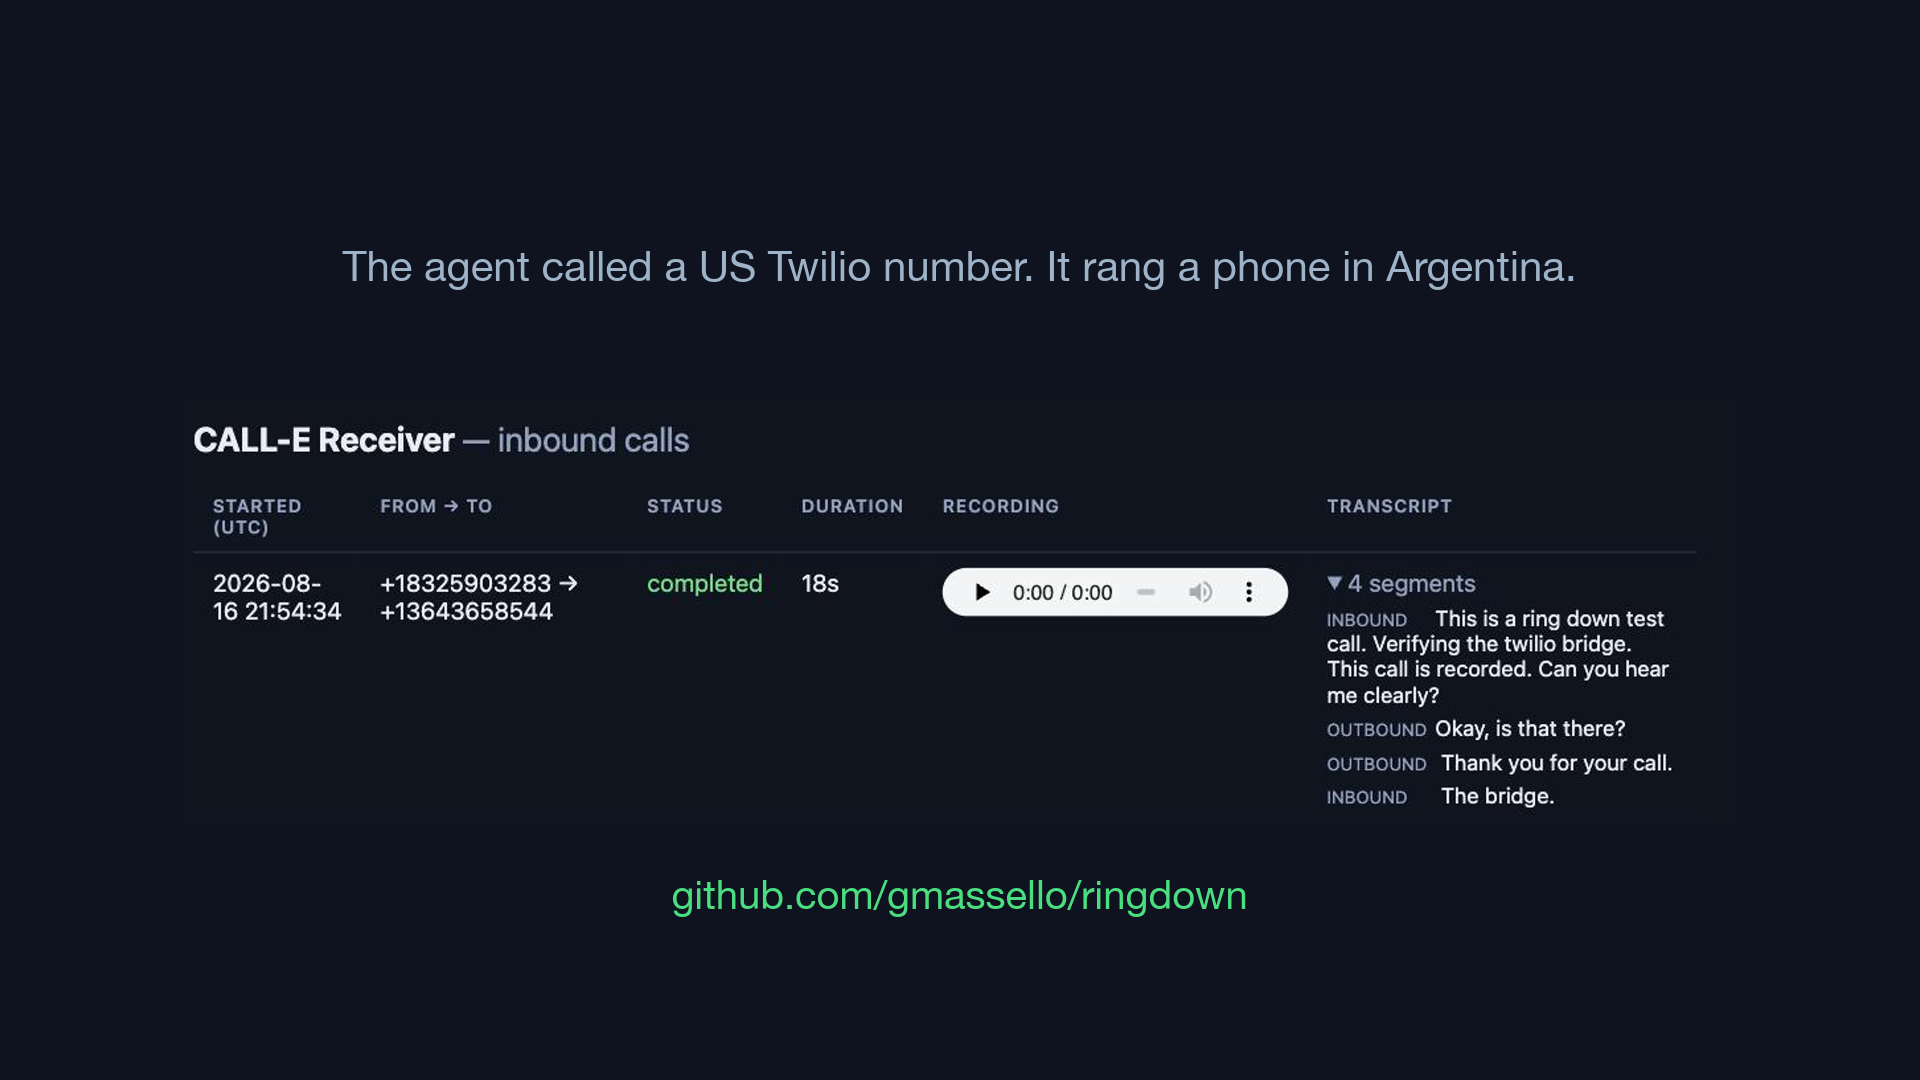
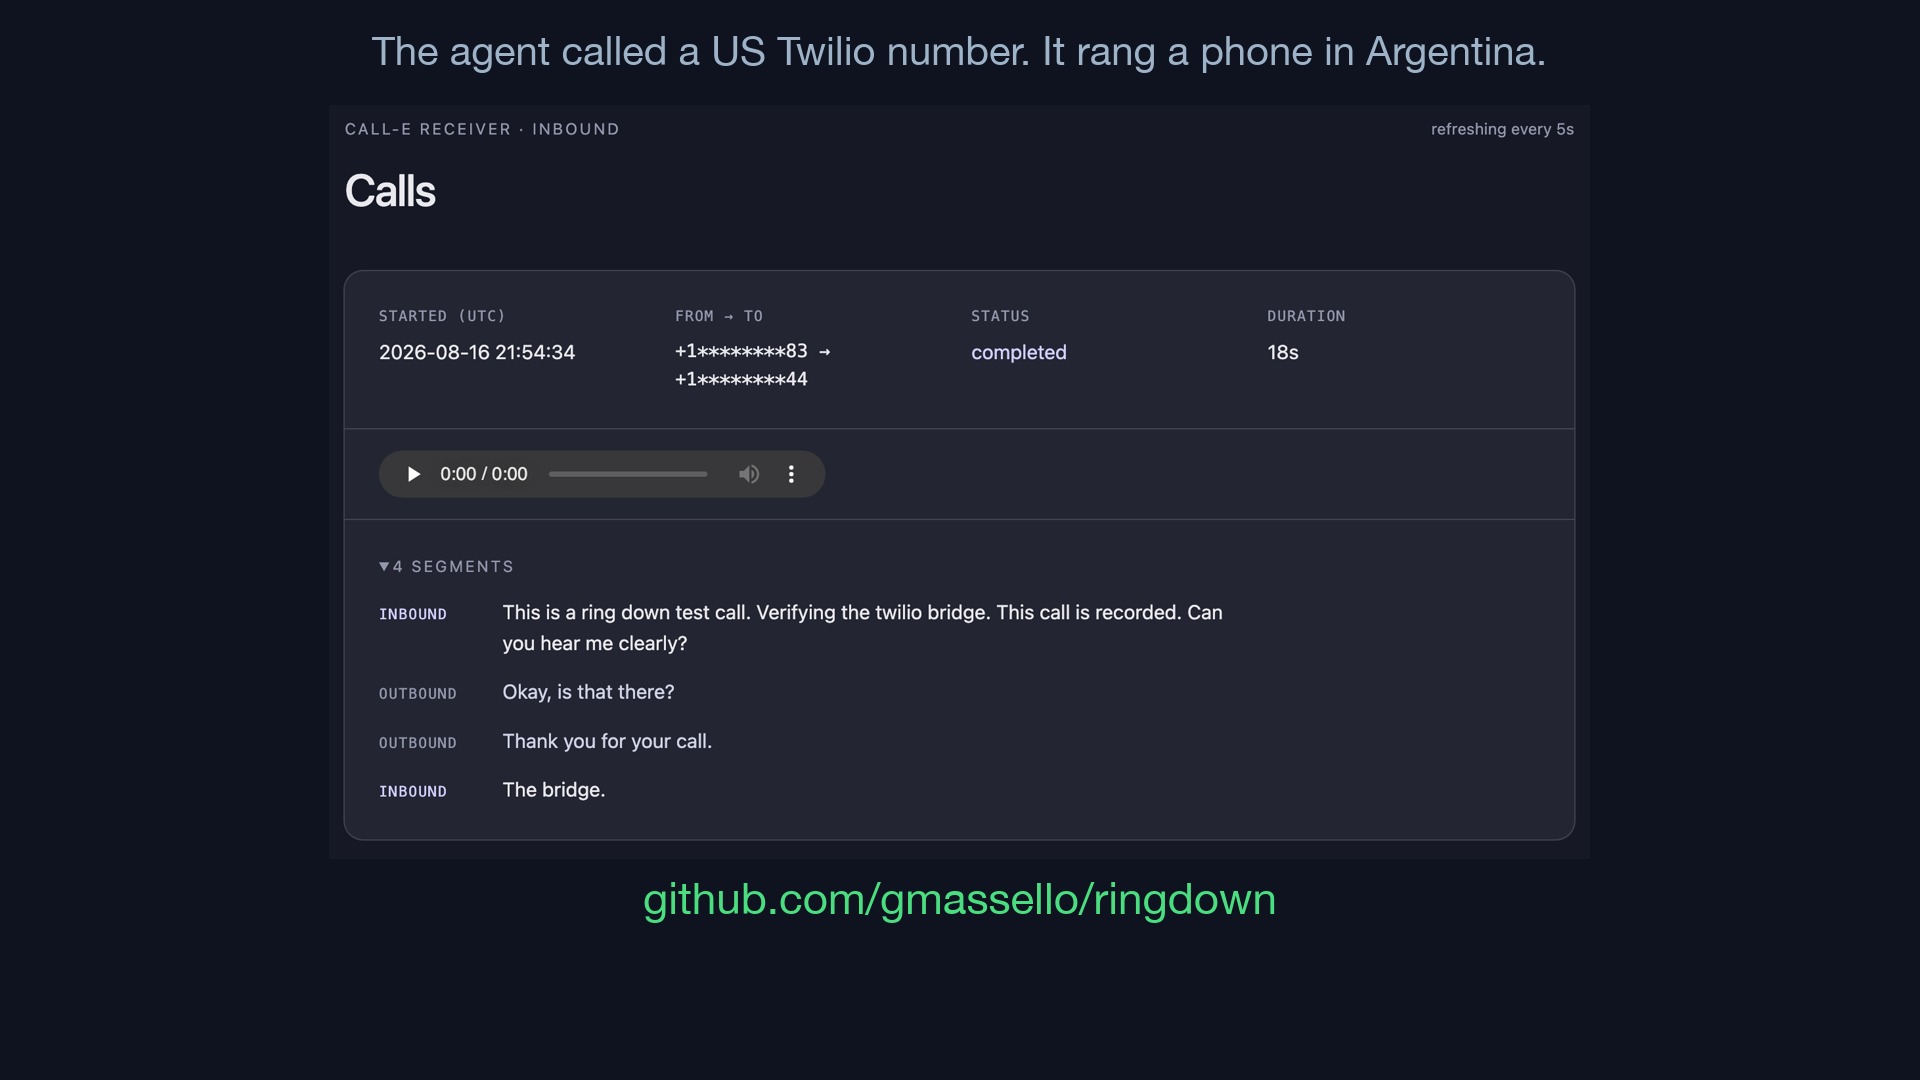
Fetch ledger locally and update screenshots.

diff --git a/docs/index.html b/docs/index.html
@@ -527,11 +527,11 @@
         </div>
       </div>
 
-      <p style="color:var(--color-neutral-400);max-width:70ch;margin-bottom:8px">This is <span class="mono">examples/ledger.example.jsonl</span>, fetched from the repository as you load this page &mdash; not a copy pasted into it. Tampering rewrites every <span class="mono">verdict</span> record to <span class="mono">acknowledged</span>, then reseals and relinks the whole chain from the genesis hash, exactly as <span class="mono">demo/run_local.py</span> does. Every link, every seal and every position stays green. The last check does not, because verification does not trust the recorded verdict: it re-derives it from the attempts.</p>
+      <p style="color:var(--color-neutral-400);max-width:70ch;margin-bottom:8px">This is <span class="mono">examples/ledger.example.jsonl</span>, byte for byte, fetched as you load this page. A test in the repo fails if this file and the one <span class="mono">demo/run_local.py</span> writes ever differ. Tampering rewrites every <span class="mono">verdict</span> record to <span class="mono">acknowledged</span>, then reseals and relinks the whole chain from the genesis hash, exactly as <span class="mono">demo/run_local.py</span> does. Every link, every seal and every position stays green. The last check does not, because verification does not trust the recorded verdict: it re-derives it from the attempts.</p>
       <p style="color:var(--color-neutral-500);font-size:14px;max-width:70ch" data-ledger-note="other">The committed ledger is scenario 3 &mdash; nobody committed, so the honest verdict is <span class="mono">unacknowledged</span>. Its digests are its own, not those of the run above. <a href="#run" data-goto-nobody>Open that scenario</a> and the two halves line up.</p>
       <p style="color:var(--color-neutral-400);font-size:14px;max-width:70ch" data-ledger-note="nobody" hidden>These eight records <strong>are</strong> the run above &mdash; scenario 3 ends at <span class="mono">ledger 8 records &middot; head sha256:9d33&hellip;</span>, and record 8 below is <span class="mono">sha256:9d331fa&hellip;</span>. Three intent/attempt pairs, one for each rung, then the verdict and its verification.</p>
 
-      <div id="ledger-status" style="margin-top:24px;color:var(--color-neutral-500);font-size:14px">Fetching the ledger from GitHub&hellip;</div>
+      <div id="ledger-status" style="margin-top:24px;color:var(--color-neutral-500);font-size:14px">Fetching the ledger&hellip;</div>
 
       <div id="ledger-body" hidden class="grid" style="grid-template-columns:repeat(auto-fit,minmax(min(320px,100%),1fr));margin-top:24px;align-items:start">
         <div>

diff --git a/docs/ledger.js b/docs/ledger.js
@@ -1,6 +1,5 @@
 export const GENESIS = "sha256:" + "0".repeat(64);
-export const LEDGER_URL =
-  "https://raw.githubusercontent.com/gmassello/ringdown/main/apps/python/ringdown/examples/ledger.example.jsonl";
+export const LEDGER_URL = "./ledger.example.jsonl";
 
 const SUPPORTED_SCHEMA = 1;
 
@@ -44,7 +43,7 @@ export const parseLedger = (text) =>
 
 export const fetchLedger = async () => {
   const response = await fetch(LEDGER_URL, { cache: "no-store" });
-  if (!response.ok) throw new Error(`GitHub answered ${response.status}`);
+  if (!response.ok) throw new Error(`the server answered ${response.status}`);
   return parseLedger(await response.text());
 };
 

diff --git a/docs/app.js b/docs/app.js
@@ -254,7 +254,7 @@ const setUpLedger = async () => {
   try {
     committed = await fetchLedger();
   } catch (error) {
-    status.textContent = `Could not fetch the ledger from GitHub (${error.message}). It is committed at examples/ledger.example.jsonl.`;
+    status.textContent = `Could not fetch the ledger (${error.message}). It is committed at examples/ledger.example.jsonl.`;
     tamperButton.disabled = true;
     return;
   }

diff --git a/apps/python/ringdown/tests/test_demo.py b/apps/python/ringdown/tests/test_demo.py
@@ -12,6 +12,7 @@ from tests.data import EXAMPLES
 APP = EXAMPLES.parent
 EXPECTED = APP / "demo" / "EXPECTED.md"
 LEDGER = EXAMPLES / "ledger.example.jsonl"
+SITE_LEDGER = APP.parents[2] / "docs" / "ledger.example.jsonl"
 QUOTED = re.compile(r"```text\n(.*?)```", re.S)
 WALL_CLOCK = re.compile(r"\b\d\d:\d\d local")
 
@@ -66,4 +67,12 @@ def test_the_committed_example_ledger_is_the_one_the_demo_writes(demo_run):
     assert demo_run.written_ledger == demo_run.committed_ledger, (
         "examples/ledger.example.jsonl is not what the demo writes any more. "
         "Run python -m demo.run_local and commit the file as it comes out."
+    )
+
+
+@pytest.mark.skipif(not SITE_LEDGER.exists(), reason="docs/ stays out of the upstream checkout")
+def test_the_site_serves_the_ledger_the_demo_writes(demo_run):
+    assert SITE_LEDGER.read_bytes() == demo_run.committed_ledger, (
+        "docs/ledger.example.jsonl has drifted from examples/ledger.example.jsonl. "
+        "The site reads its own copy, so copy the file across after running the demo."
     )

diff --git a/plan-still-dashboard.md b/plan-still-dashboard.md
@@ -1,0 +1,168 @@
+# Regrabar el still del dashboard y re-ensamblar el demo
+
+Plan para ejecutar mañana. Se deja escrito en `plan-still-dashboard.md`, en la raíz del proyecto,
+junto a `plan-anti-inyeccion.md`. No se ejecuta nada más hoy.
+
+## Contexto
+
+`video/dashboard.png` es el primer still de cierre del video demo (2:50): muestra el dashboard del
+receiver con la llamada real recibida en Argentina. Al rediseñarse `/calls` de tabla a tarjetas, el
+still quedó mostrando la interfaz vieja. Está anotado como pendiente en `video/README.md`.
+
+Al abrir el material aparecen dos cosas que cambian el trabajo:
+
+**1. El still no es una imagen suelta: es un OUTRO del ensamblado.** `video/README.md:113-118` deja
+el comando completo, con los números ya calculados a partir de `out/timing.txt`:
+
+```
+END=142.6  SLIDE=video/slide.png SLIDE_DUR=18.7
+OUTRO="video/dashboard.png:4,video/closing.png:4.2"  OUTRO_REPLACE=8.2
+```
+
+Cambiar el PNG no toca el `demo.mp4` publicado. Pero **el material caro sigue en disco**:
+`out/raw-fitted.mov` (el screencast ya ajustado al audio), `out/narration.wav`, `out/captions.srt`,
+`out/timing.txt` y `out/timing-noslide.txt`. Así que re-ensamblar es un solo comando y **no hay que
+regrabar ni terminal ni teléfono ni audio**.
+
+**2. `mkstills.sh` no reproduce el PNG commiteado.** Para `dashboard.png` hace
+`crop=1200:790:150:20`, `scale=-1:900`, `pad=1920:1080:…:150` y dibuja **una sola** línea a `y=60`,
+lo que dejaría el recorte de `y=150` a `y=1050`. El PNG real tiene el texto a ~`y=267`, el dashboard
+en una franja de ~420 px y una línea `github.com/gmassello/ringdown` en verde que el script no
+dibuja. El artefacto y su generador divergieron, y el README declara al script como la forma de
+regenerarlo.
+
+Resultado buscado: el still muestra el dashboard actual con los números enmascarados, `mkstills.sh`
+vuelve a producirlo tal cual, y `out/demo.mp4` queda regenerado con él.
+
+## Objetivo
+
+`video/dashboard.png` nuevo (1920x1080, dashboard rediseñado, números enmascarados), `mkstills.sh`
+que lo regenere de forma reproducible, y `out/demo.mp4` re-ensamblado con el still nuevo — sin
+regrabar ninguna toma.
+
+## Suposiciones
+
+- **Números enmascarados** (`+1********83 → +1********44`), decidido en la conversación. El dashboard
+  imprime lo que tiene en la base, así que la llamada de demo se siembra ya enmascarada. El still
+  queda distinto del video hoy publicado en ese detalle.
+- **Se conserva el reproductor de audio**, en estado vacío como en el still viejo: la llamada
+  sembrada lleva `recording_url` de `api.twilio.com` (como `_with_recording` en
+  `apps/python/calle-receiver/tests/test_dashboard.py:51`) para que `_audio()` renderice el
+  `<audio controls>`.
+- Mismo contenido que el still viejo: llamada del 2026-08-16, `completed`, `18s`, y los cuatro
+  segmentos (`This is a ring down test call…` / `Okay, is that there?` / `Thank you for your call.` /
+  `The bridge.`).
+- La composición replica la del still actual, no la del script: línea de contexto arriba
+  (`The agent called a US Twilio number. It rang a phone in Argentina.`), dashboard al medio, repo en
+  verde abajo.
+- **Subir el video nuevo a YouTube es decisión tuya**, no parte de esto. El plan deja `demo.mp4`
+  listo.
+
+## Reglas del skill `personal-record-video` que aplican acá
+
+Se usa el skill (`~/Documents/dotfiles/claude-code/skills/personal-record-video/`) para el
+ensamblado. De sus reglas, las que tocan este trabajo:
+
+- **`build-audio.sh` borra `video/out/` entero.** No se corre. Sería el error caro del día: se
+  llevaría `raw-fitted.mov` y obligaría a rehacer el fit con las marcas de beat. Solo se corre
+  `build-video.sh`.
+- **`SLIDE_DUR` debe ser exactamente el largo del beat 1** (18.7 s en `out/timing.txt`) y
+  `OUTRO_REPLACE` la suma de los outros (8.2). Los números ya están en el README y no cambian, porque
+  el still nuevo ocupa el mismo lugar y la misma duración.
+- **`dashboard.png` dura 4 s en pantalla.** El skill avisa que bajo ~3.5 s un still no se llega a
+  leer, así que 4 s es el piso: el encuadre tiene que priorizar legibilidad sobre mostrarlo todo. La
+  tarjeta nueva juega a favor (menos densa que la tabla), pero conviene recortar apretado.
+- **libass**: sin él, el filtro de subtítulos falla al final de todo el encode. Verificar
+  `ffmpeg -filters | grep " subtitles "` antes de ensamblar; si falta, `brew install ffmpeg@7` (los
+  scripts prefieren el keg solos, y `mkstills.sh` ya lo hace).
+- **El banner del debugger de Chrome no aplica acá.** Es un problema de las capturas en window mode
+  con `Cmd+Shift+5`; el still se saca con la herramienta MCP, que fotografía solo el contenido de la
+  página, sin chrome del navegador.
+- **Las screenshots vuelven a una escala distinta del viewport**, así que las coordenadas del recorte
+  se sacan de `getBoundingClientRect()`, nunca midiendo sobre la imagen.
+
+## Pasos
+
+1. **Capturar el dashboard nuevo.** Método que ya documenta `video/README.md:91-94` y que se usó al
+   implementar el rediseño: receiver local contra una `calls.db` propia en el scratchpad, sembrar por
+   `POST /voice` + cuatro `POST /voice/transcription` + `POST /voice/status`, marcar el
+   `recording_url`, bajar la página con `curl -u`, servir esa copia estática y fotografiarla con
+   Chrome. La copia estática existe porque el Basic Auth abre un diálogo nativo que bloquea la
+   automatización. Ventana a 1280×800 con `resize_window`, como pide el skill.
+2. **Derivar el recorte midiendo.** Con `javascript_tool` sobre la copia servida, leer el
+   `getBoundingClientRect()` de `.call` y del encabezado y calcular de ahí el `crop=w:h:x:y`. El
+   recorte viejo (`1200:790:150:20`, afinado a una ventana de 1505x812) no sirve: el layout pasó de
+   tabla ancha a tarjeta más angosta y alta.
+3. **`video/mkstills.sh` — arreglar el bloque de `dashboard.png`.** Nuevo `crop`, y las tres capas
+   que el still realmente tiene: línea de contexto arriba, recorte escalado y centrado vía `pad`, y
+   `github.com/gmassello/ringdown` en `$GO` abajo. Se reusan los helpers `line()` y `card()` y las
+   variables de color que ya están en el script. No se toca la generación de `slide.png` ni de
+   `closing.png`.
+4. **Regenerar `video/dashboard.png`**: `bash video/mkstills.sh <captura>`.
+5. **Re-ensamblar el mp4** con el comando del README, sin cambiar un número:
+   ```bash
+   VIDEO_DIR=$PWD/video END=142.6 \
+     SLIDE=video/slide.png SLIDE_DUR=18.7 \
+     OUTRO="video/dashboard.png:4,video/closing.png:4.2" OUTRO_REPLACE=8.2 \
+     bash ~/Documents/dotfiles/claude-code/skills/personal-record-video/scripts/build-video.sh \
+       video/out/raw-fitted.mov
+   ```
+   No se corre `fit-to-audio.py`: `raw-fitted.mov` ya está hecho y las marcas de beat no cambian.
+6. **`video/README.md`** — quitar la anotación `**Shot before the dashboard was restyled** —
+   re-shoot it before the next take` de la fila de `dashboard.png`. La sección *The dashboard still*
+   describe bien el método y queda como está.
+
+## Documentación
+
+`video/README.md`, en el paso 6. Nada más: ningún otro doc describe el still. No cambia código Python
+ni el sitio.
+
+## Verificación
+
+- **`slide.png` y `closing.png` no deben cambiar**: `mkstills.sh` los regenera siempre, así que
+  `git status video/` tiene que listar `dashboard.png` como único PNG modificado.
+- `dashboard.png` mide 1920x1080; abrirlo con la herramienta de imágenes y mirarlo: tarjeta entera,
+  los cuatro segmentos legibles, nada cortado.
+- **Números enmascarados**: revisión visual, y `grep` sobre el HTML capturado confirmando que no
+  quedó ningún `+1832590` ni `+1364365`.
+- Correr `mkstills.sh` dos veces con la misma captura y comparar `shasum` — prueba de que el script
+  quedó reproduciendo el artefacto.
+- `out/demo.mp4` regenerado: duración ~2:49.5 (`out/timing.txt`), y mirar los últimos 10 s para ver
+  el still nuevo entrando donde iba el viejo. `ffprobe` para la duración, y extraer un frame del
+  tramo del outro para confirmarlo a ojo.
+- Legibilidad a 4 s: mirar el frame extraído al tamaño de un teléfono; si el texto de los segmentos
+  no se lee, apretar más el recorte.
+- Las dos suites siguen verdes (297 + 19), aunque no se toca Python.
+- Apagar el receiver y el servidor estático que quedan levantados durante la captura.
+
+## Fuera de alcance
+
+- **Regrabar tomas**: terminal, teléfono y audio se reusan tal cual. No se corre `build-audio.sh`
+  (borraría `out/`) ni `fit-to-audio.py`.
+- **Subir el video a YouTube.** El plan deja `out/demo.mp4` y `out/demo.en.srt` listos.
+- `slide.png`, `closing.png` y `thumbnail.png`: su contenido sigue vigente.
+- `narration.tsv` y los tiempos: el still ocupa el mismo lugar y la misma duración.
+- El dashboard vivo, el sitio y los dos paquetes Python.
+
+## Explicación funcional para dummies
+
+El video de demostración termina mostrando una foto de la pantalla donde se ven las llamadas
+recibidas. Esa foto quedó vieja: muestra la pantalla como era antes, una planilla con filas y
+columnas, y ahora esa pantalla tiene una ficha por llamada.
+
+Se saca la foto de nuevo: se levanta el programa en la computadora, se le carga la misma llamada que
+aparecía antes —misma fecha, mismos 18 segundos, las mismas cuatro frases— y se fotografía la
+pantalla nueva. Los números de teléfono esta vez van tapados, como ya se hizo en la página web.
+
+Lo bueno es que **no hay que volver a grabar nada**: ni la voz, ni la pantalla, ni el teléfono. Todo
+ese material quedó guardado, así que se cambia la foto y se vuelve a armar el video con un solo
+comando. Queda un archivo nuevo listo para subir; subirlo o no lo decidís vos.
+
+De paso se arregla algo roto que no se notaba: hay un archivo que se supone que rehace esas fotos
+automáticamente, y hoy no produce la que realmente se usa (le falta el renglón de abajo con la
+dirección del repositorio, y encuadra distinto). Corregido, pedirle que rehaga la foto devuelve
+exactamente la que va en el video.
+
+El riesgo del día está anotado y es uno solo: hay un comando parecido (`build-audio.sh`) que borra
+toda la carpeta de material generado. Si se corre por error, hay que rehacer el trabajo pesado de
+sincronizar el video con la voz. No se corre.

diff --git a/video/README.md b/video/README.md
@@ -10,7 +10,7 @@ live in `~/.claude/skills/personal-record-video/scripts/`.
 | `reset.sh` | Demo state for the terminal take. `--check` reports without changing anything |
 | `take.sh` | The shot list. Enter advances, one screen per beat after the slide |
 | `slide.png` | Beat 1, the opening card: the problem and the thesis |
-| `dashboard.png` | First closing still: the real call, recorded and transcribed. **Shot before the dashboard was restyled** — re-shoot it before the next take |
+| `dashboard.png` | First closing still: the real call, recorded and transcribed |
 | `closing.png` | Last still: the thesis, what the live provider answered, the repo |
 | `live/` | The live call: run files, pre-flight, evidence capture. Gitignored |
 | `out/` | Generated. `build-audio.sh` wipes it on every run |
@@ -92,6 +92,18 @@ returned. Edit it in `mkstills.sh` and re-run.
 `calls.db`, fetch the page with `curl -u`, serve that static copy and shoot it. The Render free
 tier wipes the database on every deploy, and Basic Auth opens a native dialog that blocks
 browser automation — hence the static copy.
+
+The crop is tuned to a **2128x1400** shot — a 1064x700 viewport at device scale 2, which is what
+headless Chrome gives you and what keeps the card sharp when it is scaled back up:
+
+```bash
+'/Applications/Google Chrome.app/Contents/MacOS/Google Chrome' --headless=new --disable-gpu \
+  --screenshot=shot.png --window-size=1064,700 --force-device-scale-factor=2 --hide-scrollbars \
+  http://localhost:8123/
+```
+
+Seed the call **already masked** (`+1********83 → +1********44`) — the dashboard prints whatever is
+in the database, and the still is published.
 
 ## 4. Assembling
 

diff --git a/CLAUDE.md b/CLAUDE.md
@@ -31,7 +31,10 @@ It runs seven scenarios against `fake/calle_server.py` on loopback and **rewrite
 `examples/ledger.example.jsonl`**. `tests/test_demo.py` asserts that the committed ledger is byte-identical
 to what the demo writes, and that the demo still prints every block quoted in `demo/EXPECTED.md`,
 in order. So a change to output formatting or ledger content means: run the demo, reconcile
-`EXPECTED.md` by hand, commit the regenerated ledger.
+`EXPECTED.md` by hand, commit the regenerated ledger — **and copy it to
+`docs/ledger.example.jsonl`**, which the site fetches from its own origin. A third assertion in
+`tests/test_demo.py` fails when those two files drift; it skips where `docs/` does not exist, so
+the upstream checkout is unaffected.
 
 Receiver locally: `uv run uvicorn app.main:app --reload --port 8000` plus a
 `cloudflared` tunnel — see `apps/python/calle-receiver/README.md` and the `deploy` / `twilio`
